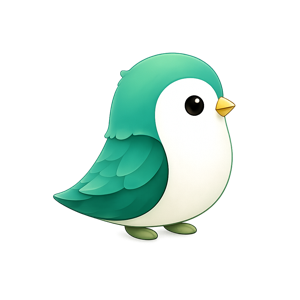
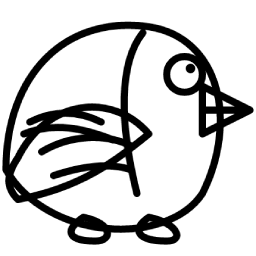
chore: release v1.0.4

diff --git a/src/pet-extension.ts b/src/pet-extension.ts
@@ -314,13 +314,34 @@ export function registerPetExtension(ctx: finch.ExtensionContext) {
   }
 
   const petToggleAction = ctx.composerActions.register('pet-toggle', {
-    async onClick() {
+    async getBadge() {
+      return petWindow
+        ? { text: ctx.i18n.t('composerActions.pet-toggle.visible'), active: true }
+        : { text: ctx.i18n.t('composerActions.pet-toggle.hidden') };
+    },
+    async onClick(_context, actions) {
       if (petWindow) {
         await setVisiblePreference(false);
         close();
-        return;
+      } else {
+        try {
+          await showPet();
+        } catch (err) {
+          if (!(err instanceof NoAvailablePetError)) throw err;
+          const result = await ctx.ui.showToast({
+            title: ctx.i18n.t('composerActions.pet-toggle.noPetTitle'),
+            description: ctx.i18n.t('composerActions.pet-toggle.noPetDescription'),
+            variant: 'warning',
+            action: { label: ctx.i18n.t('composerActions.pet-toggle.install') },
+          });
+          if (result.action === 'action') {
+            await actions.composer.fill(ctx.i18n.t('composerActions.pet-toggle.installPrompt'));
+          }
+          return;
+        }
       }
-      await showPet();
+      // 点击后立即重新读取状态，更新按钮的文案和激活态。
+      petToggleAction.notifyUpdate();
     },
   });
 